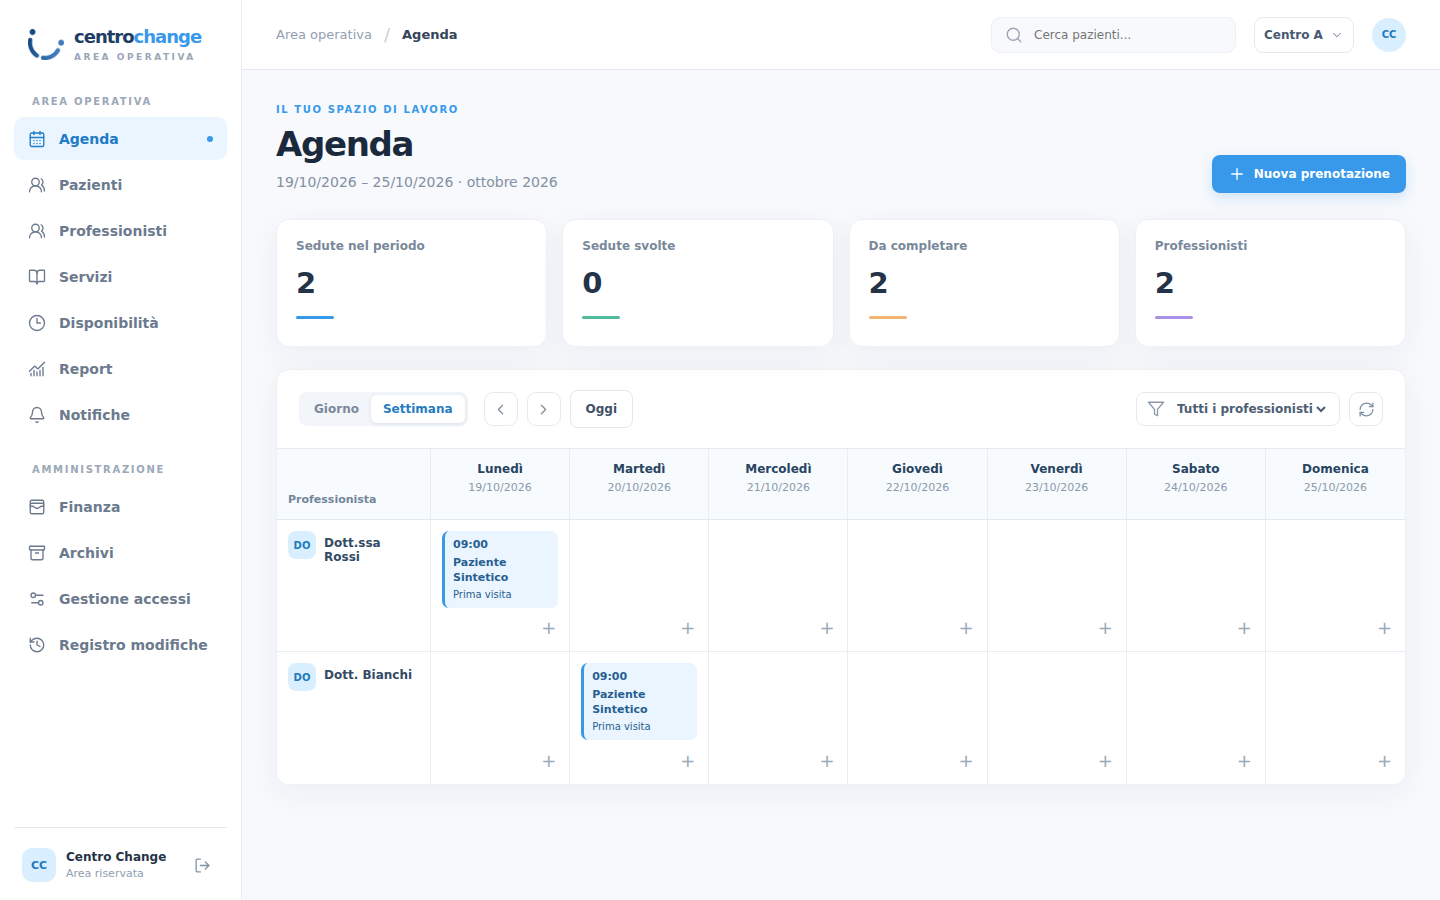
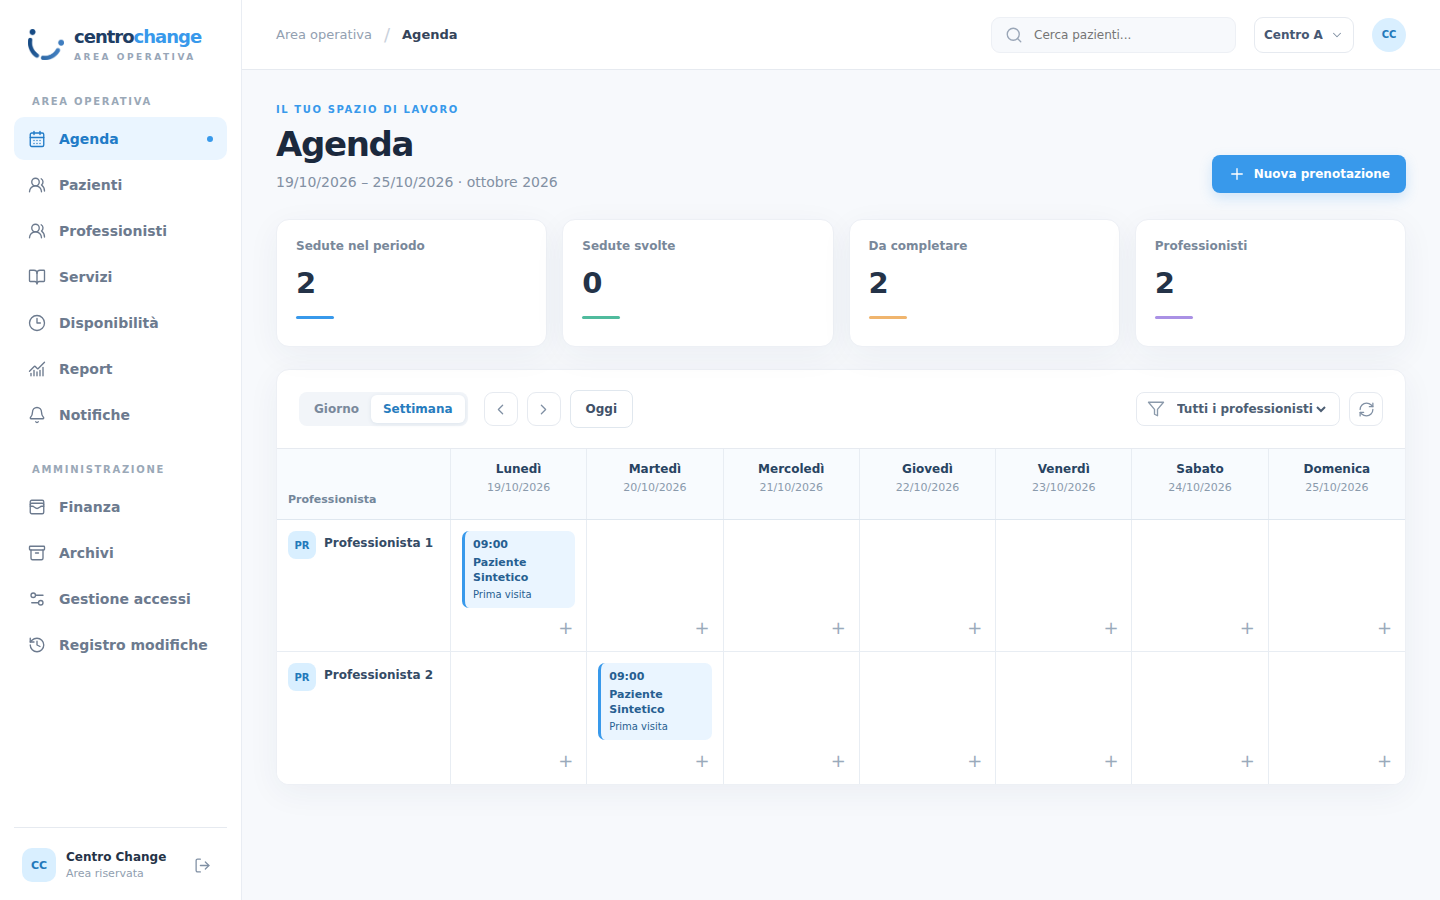
docs: record live UAT priority fixes and single-stack recovery proof

diff --git a/frontend/premium/tests/live.spec.ts b/frontend/premium/tests/live.spec.ts
@@ -94,6 +94,7 @@ test('UAT priority: live weekly grid, Professionals, report and manifest-owned d
     await expect(page.locator('tbody tr')).toHaveCount(1)
     await page.locator('tbody tr').first().click()
     await expect(page.getByRole('dialog')).toContainText('Professionista 1')
+    await expect(page.getByRole('dialog')).toContainText('Scheda professionista')
     await page.screenshot({ path: info.outputPath('uat-live-professionals.png'), fullPage: true })
     await page.goto('/premium#Pazienti')
     await expect(page.locator('tbody')).toContainText('Paziente 1')

diff --git a/docs/ui/premium-react/UAT-PRIORITY-FIXES-LIVE-2026-10-22.md b/docs/ui/premium-react/UAT-PRIORITY-FIXES-LIVE-2026-10-22.md
@@ -1,0 +1,28 @@
+# #148 — correzioni UAT prioritarie, DEV single-stack
+
+**Stato: runtime e QA live PASS; richiesta etichette demo PARTIAL.** PR #150 resta DRAFT. Nessuna accettazione grafica Owner dichiarata.
+
+## Intervento
+
+- Agenda React: settimana lunedì–domenica predefinita, sette colonne uguali e allineate, professionisti nelle righe, appuntamenti nella cella giorno/professionista. Filtri, navigazione, prenotazione e dettaglio restano attivi. Il nome del professionista ora entra nella colonna senza spezzare la parola sul desktop; sul mobile la griglia scorre orizzontalmente nella regione dedicata.
+- **Professionisti** segue **Pazienti** nel menu. Elenco ricercabile e scheda usano API e permessi esistenti.
+- **Report professionisti** è raggiungibile da Report. Selezione, periodo, conteggi, sedute ed esportazione autorizzata sono attivi; dettagli economici restano circoscritti ai ruoli Finance già autorizzati.
+- Alias demo deterministici per gli ID esatti del manifest UAT, distinti per Patient e Customer, propagati a React tramite proiezioni già autorizzate. ID API, relazioni e documenti canonici non sono modificati. Quattro Patient sintetici storici fuori manifest non ricevono alias: non esiste una fonte di ownership esatta approvata per assegnarli senza indovinare. Questo è il solo punto PARTIAL delle quattro richieste.
+
+## Immagine e recovery
+
+- Sorgente prodotto `749eef346e9d259ce59266a5455311b45d498a76`; immagine completa `sha256:54db4262375457bee60f497029f8cf05f38e99bfab6ec9caa6762078a5f74b6f`. Parità source/manifest e parità dell'immagine costruita PASS.
+- Checkpoint cifrato nuovo `cc148-checkpoint-413c1tgm`, sei componenti, 55 elementi Site e 40 file. Chiave separata fuori Git, checkpoint precedenti conservati. Restore reale su rete, database, container e volumi temporanei isolati: **PASS_RESTORE**; 929 tabelle, colonne, indici, conteggi e 15 hash critici identici; albero Site 55/55 prima dell'avvio, 41/41 componenti durevoli dopo.
+- Solo i sei container applicativi di `centrochange-dev` sono stati ricreati. MariaDB, Redis, volumi DEV, Site, rete e porta `127.0.0.1:8082` invariati. Blocco scritture **3,44 minuti** su massimo 120. Nove servizi attivi, `cc_synthetic_dev=1`, `cc_uat_demo=1`, `cc_premium_primary=0`. Nessuna migrazione, reset, secondo stack permanente o cleanup storico.
+- Risorse temporanee del restore rimosse dopo verifica di ID, label, rete e mount. Backup cifrato, chiave e vecchia immagine di rollback conservati.
+
+## Verifiche
+
+- Offline: typecheck e build PASS; 44 test Python PASS; Playwright completo **89 PASS, 1 SKIP** prima della rifinitura CSS. Dopo la rifinitura: due test Agenda desktop/mobile PASS e due test alias desktop/mobile PASS. Lo SKIP resta distinto dai PASS.
+- Frappe reale: suite live finale **24/24 PASS**, fixture possedute dai test rimosse (`fixture_teardown=PASS`). Copre sette ruoli più Guest, centri A/B, 11 archivi e schede, Agenda, profili, Report, Finanza, stampa, CSRF, scritture consentite, dinieghi e responsive. `catalog.records` p95: 12 ms desktop, 11 ms mobile su dieci campioni per viewport.
+- Dopo i test: schema e 15 hash dei dati clinici/finanziari identici. Crescono solo audit, commenti di teardown, log permessi e preferenze di notifica/sessione Frappe.
+- Screenshot **live**: Agenda [desktop](../../evidence/issue-148/uat-live-agenda-desktop.png) / [mobile](../../evidence/issue-148/uat-live-agenda-mobile.png); Professionisti [desktop](../../evidence/issue-148/uat-live-professionisti-desktop.png) / [mobile](../../evidence/issue-148/uat-live-professionisti-mobile.png); Report [desktop](../../evidence/issue-148/uat-live-report-professionisti-desktop.png) / [mobile](../../evidence/issue-148/uat-live-report-professionisti-mobile.png). Screenshot **offline sintetici** con appuntamenti nella griglia: `docs/evidence/issue-148/uat-agenda-week-{desktop,mobile}.png`; alias e ID canonici: `uat-alias-demo-{desktop,mobile}.png`. Gli screenshot live del Report possono mostrare nomi di vecchie fixture sintetiche fuori manifest: non sono dati reali.
+
+## Accesso Owner
+
+La React DEV esistente risponde a `http://127.0.0.1:8082/premium` **sul server**. Da un dispositivo Owner usare il tunnel SSH già autorizzato verso `srv2033673.hstgr.cloud` con inoltro locale `8082:127.0.0.1:8082`, poi aprire lo stesso URL locale ed entrare con la propria utenza UAT Frappe. Nessuna credenziale è nel report. `cc_premium_primary` resta disattivato in attesa dell'accettazione visiva esplicita.
